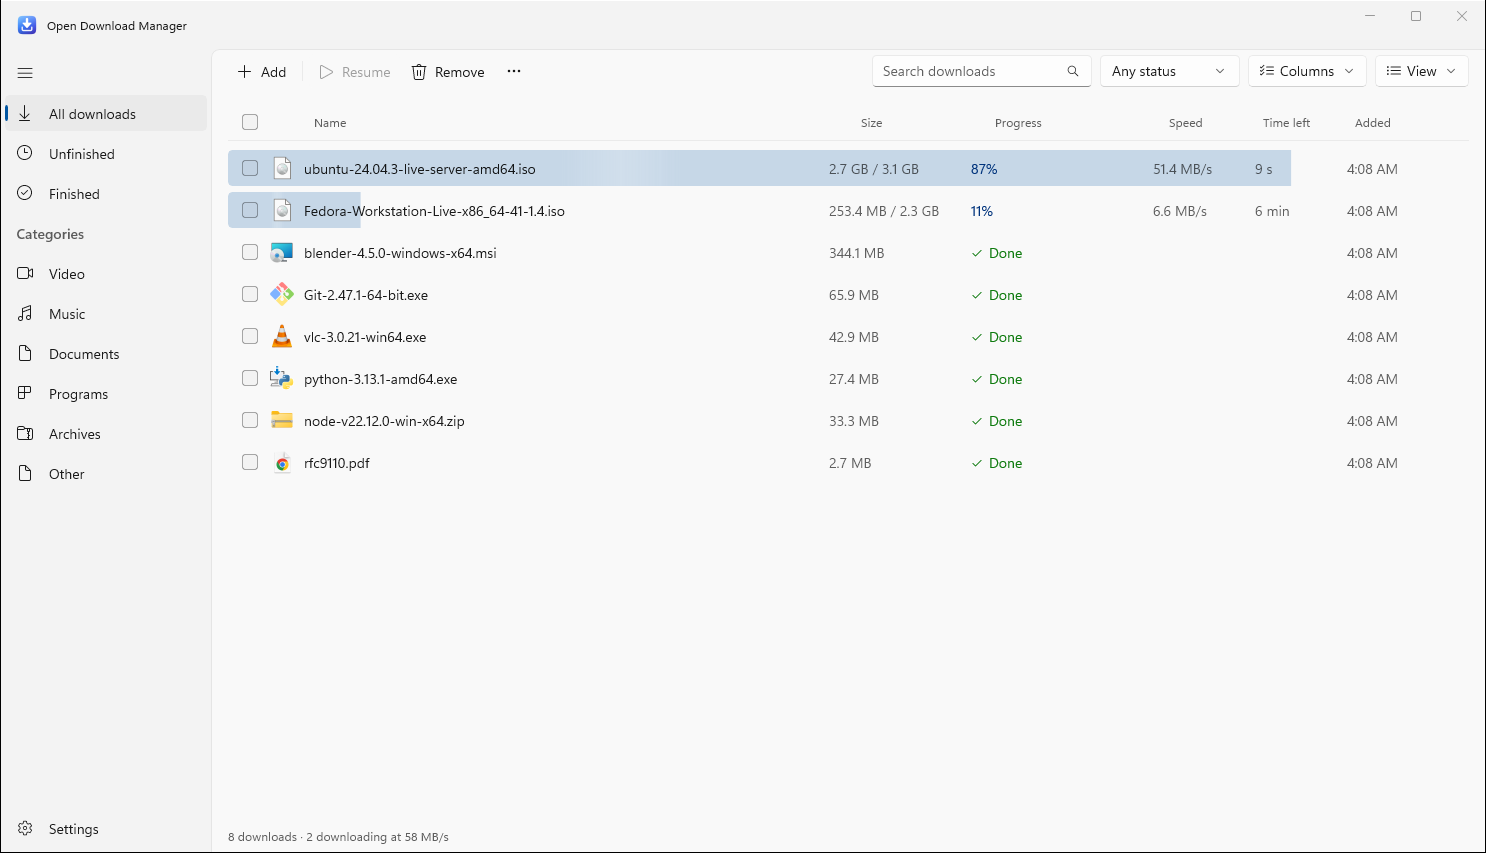
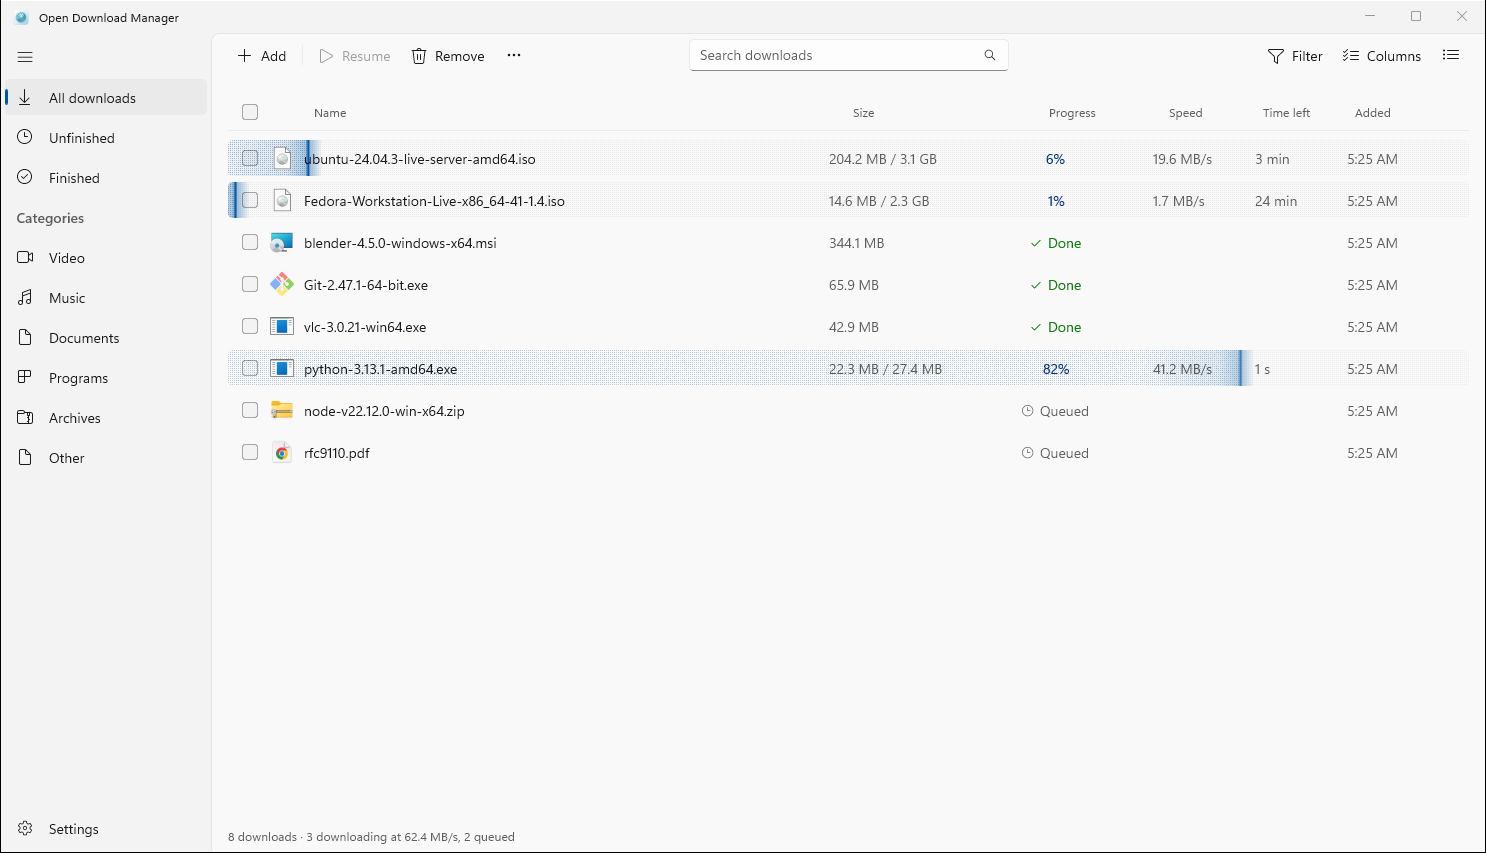
Labelled filter and columns buttons, a density toggle, new README screenshots
- Filter and Columns show their labels first; the actions' labels follow
  when there is room, and everything falls back to icons on narrow windows.
- The View menu is now one button that steps through the row densities;
  theme and progress windows stay in Settings.
- README screenshots retaken: the list in light and dark with dot-matrix
  rows, the progress window with its connections, and the extension with the
  new icon.

diff --git a/windows/OpenDownloadManager/MainWindow.xaml b/windows/OpenDownloadManager/MainWindow.xaml
@@ -181,19 +181,22 @@
                             <Style TargetType="Button" BasedOn="{StaticResource DefaultButtonStyle}">
                                 <Setter Property="Background" Value="Transparent" />
                                 <Setter Property="BorderThickness" Value="0" />
-                                <Setter Property="Padding" Value="0" />
-                                <Setter Property="Width" Value="36" />
+                                <Setter Property="Padding" Value="9,0" />
+                                <Setter Property="MinWidth" Value="36" />
                                 <Setter Property="Height" Value="34" />
                                 <Setter Property="CornerRadius" Value="4" />
                             </Style>
                         </StackPanel.Resources>
                         <Button x:Name="StatusButton" ToolTipService.ToolTip="Show: any status" AutomationProperties.Name="Filter by status">
-                            <Grid>
-                                <FontIcon Glyph="&#xE71C;" FontSize="16" />
-                                <!-- A dot while a filter is on. -->
-                                <Ellipse x:Name="StatusDot" Width="7" Height="7" Margin="0,-3,-5,0" HorizontalAlignment="Right" VerticalAlignment="Top"
-                                         Fill="{ThemeResource AccentFillColorDefaultBrush}" Visibility="Collapsed" />
-                            </Grid>
+                            <StackPanel Orientation="Horizontal" Spacing="8">
+                                <Grid>
+                                    <FontIcon Glyph="&#xE71C;" FontSize="16" />
+                                    <!-- A dot while a filter is on. -->
+                                    <Ellipse x:Name="StatusDot" Width="7" Height="7" Margin="0,-3,-5,0" HorizontalAlignment="Right" VerticalAlignment="Top"
+                                             Fill="{ThemeResource AccentFillColorDefaultBrush}" Visibility="Collapsed" />
+                                </Grid>
+                                <TextBlock x:Name="LabelFilter" Text="Filter" />
+                            </StackPanel>
                             <Button.Flyout>
                                 <MenuFlyout Placement="BottomEdgeAlignedRight">
                                     <RadioMenuFlyoutItem Text="Any status" GroupName="status" Tag="any" IsChecked="True" Click="OnStatusFilterClick" />
@@ -207,7 +210,10 @@
                             </Button.Flyout>
                         </Button>
                         <Button ToolTipService.ToolTip="Columns" AutomationProperties.Name="Columns">
-                            <FontIcon Glyph="&#xE9D5;" FontSize="16" />
+                            <StackPanel Orientation="Horizontal" Spacing="8">
+                                <FontIcon Glyph="&#xE9D5;" FontSize="16" />
+                                <TextBlock x:Name="LabelColumns" Text="Columns" />
+                            </StackPanel>
                             <Button.Flyout>
                                 <MenuFlyout Placement="BottomEdgeAlignedRight" Opening="OnViewMenuOpening">
                                     <ToggleMenuFlyoutItem x:Name="ColSize" Text="Size" Click="OnColumnToggle" Tag="size" />
@@ -218,24 +224,9 @@
                                 </MenuFlyout>
                             </Button.Flyout>
                         </Button>
-                        <Button ToolTipService.ToolTip="View: density, theme, progress windows" AutomationProperties.Name="View">
-                            <FontIcon Glyph="&#xE8FD;" FontSize="16" />
-                            <Button.Flyout>
-                                <MenuFlyout x:Name="ViewMenu" Placement="BottomEdgeAlignedRight" Opening="OnViewMenuOpening">
-                                    <MenuFlyoutSubItem Text="Density">
-                                        <RadioMenuFlyoutItem x:Name="DensityCompact" Text="Compact" GroupName="density" Tag="compact" Click="OnDensityClick" />
-                                        <RadioMenuFlyoutItem x:Name="DensityStandard" Text="Standard" GroupName="density" Tag="standard" Click="OnDensityClick" />
-                                        <RadioMenuFlyoutItem x:Name="DensityComfortable" Text="Comfortable" GroupName="density" Tag="comfortable" Click="OnDensityClick" />
-                                    </MenuFlyoutSubItem>
-                                    <MenuFlyoutSubItem Text="Theme">
-                                        <RadioMenuFlyoutItem x:Name="ThemeSystem" Text="Use system setting" GroupName="theme" Tag="system" Click="OnThemeClick" />
-                                        <RadioMenuFlyoutItem x:Name="ThemeLight" Text="Light" GroupName="theme" Tag="light" Click="OnThemeClick" />
-                                        <RadioMenuFlyoutItem x:Name="ThemeDark" Text="Dark" GroupName="theme" Tag="dark" Click="OnThemeClick" />
-                                    </MenuFlyoutSubItem>
-                                    <MenuFlyoutSeparator />
-                                    <ToggleMenuFlyoutItem x:Name="ProgressWindows" Text="Open a progress window for each download" Click="OnProgressWindowsToggle" />
-                                </MenuFlyout>
-                            </Button.Flyout>
+                        <!-- One click steps through the row densities; theme and the rest live in Settings. -->
+                        <Button x:Name="DensityButton" Click="OnDensityToggle" AutomationProperties.Name="Row density">
+                            <FontIcon x:Name="DensityIcon" Glyph="&#xE8FD;" FontSize="16" />
                         </Button>
                     </StackPanel>
                 </Grid>

diff --git a/windows/OpenDownloadManager/MainWindow.xaml.cs b/windows/OpenDownloadManager/MainWindow.xaml.cs
@@ -20,6 +20,7 @@ public sealed partial class MainWindow : Window
     {
         ViewModel = viewModel;
         InitializeComponent();
+        ShowDensity();
         // The Pause/Resume button follows the selection and the downloads' states; a light poll
         // covers both without wiring every item.
         var pauseResume = DispatcherQueue.CreateTimer();
@@ -94,13 +95,6 @@ public sealed partial class MainWindow : Window
         ColSpeed.IsChecked = v.ShowSpeed;
         ColTimeLeft.IsChecked = v.ShowTimeLeft;
         ColAdded.IsChecked = v.ShowAdded;
-        DensityCompact.IsChecked = v.Density == "compact";
-        DensityStandard.IsChecked = v.Density == "standard";
-        DensityComfortable.IsChecked = v.Density == "comfortable";
-        ThemeSystem.IsChecked = v.Theme == "system";
-        ThemeLight.IsChecked = v.Theme == "light";
-        ThemeDark.IsChecked = v.Theme == "dark";
-        ProgressWindows.IsChecked = ViewModel.AppSettings.ShowProgressWindow;
     }
 
     private void OnColumnToggle(object sender, RoutedEventArgs e)
@@ -117,20 +111,22 @@ public sealed partial class MainWindow : Window
         }
     }
 
-    private void OnDensityClick(object sender, RoutedEventArgs e)
+    private static readonly string[] Densities = ["compact", "standard", "comfortable"];
+
+    /// <summary>Steps to the next row density: compact, standard, comfortable, and round again.</summary>
+    private void OnDensityToggle(object sender, RoutedEventArgs e)
     {
-        if (sender is FrameworkElement { Tag: string density }) ViewSettings.Current.Density = density;
+        var v = ViewSettings.Current;
+        v.Density = Densities[(Array.IndexOf(Densities, v.Density) + 1) % Densities.Length];
+        ShowDensity();
     }
 
-    private void OnThemeClick(object sender, RoutedEventArgs e)
+    private void ShowDensity()
     {
-        if (sender is FrameworkElement { Tag: string theme }) ViewSettings.Current.Theme = theme;
-    }
-
-    private void OnProgressWindowsToggle(object sender, RoutedEventArgs e)
-    {
-        ViewModel.AppSettings.ShowProgressWindow = ProgressWindows.IsChecked;
-        try { ViewModel.AppSettings.Save(); } catch { }
+        var current = ViewSettings.Current.Density;
+        var next = Densities[(Array.IndexOf(Densities, current) + 1) % Densities.Length];
+        static string Name(string d) => char.ToUpperInvariant(d[0]) + d[1..];
+        ToolTipService.SetToolTip(DensityButton, $"Rows: {Name(current)}. Click for {Name(next)}.");
     }
 
     // ----- selection -----
@@ -170,21 +166,26 @@ public sealed partial class MainWindow : Window
 
     // ----- responsive layout -----
 
-    /// <summary>Width of the actions with their labels (Add, Pause/Resume, Remove, More).</summary>
-    private const double LabelledActionsWidth = 292;
+    /// <summary>Widths of each side of the toolbar with its labels.</summary>
+    private const double LabelledActionsWidth = 312, LabelledToolsWidth = 236;
 
     /// <summary>
-    /// The search stays centred, so each side gets half of what it leaves. The actions show their
-    /// labels when that half fits them, shrinking the search a little first; otherwise they become
+    /// The search stays centred, so each side gets half of what it leaves. Labels show where they
+    /// fit: the filter, columns and view buttons first, then the actions; otherwise those become
     /// icon buttons. Narrow windows give the search a row of its own.
     /// </summary>
     private void OnBodySizeChanged(object sender, SizeChangedEventArgs e)
     {
         var width = e.NewSize.Width;
         var narrow = width < 620;
-        var labels = false;
+        const double minSearch = 170, gap = 8;
+        bool Fits(double side) => width - 2 * (side + gap) >= minSearch;
+        bool toolLabels, actionLabels;
         if (narrow)
         {
+            // The search has its own row, so each side has the whole width to share.
+            toolLabels = width >= LabelledToolsWidth + 36 * 4 + 40;
+            actionLabels = width >= LabelledToolsWidth + LabelledActionsWidth + 16;
             Search.Width = double.NaN;
             Search.HorizontalAlignment = HorizontalAlignment.Stretch;
             Grid.SetRow(Search, 1);
@@ -193,17 +194,19 @@ public sealed partial class MainWindow : Window
         }
         else
         {
-            // Room for the search between two equal sides wide enough for the labelled actions.
-            var room = width - 2 * (LabelledActionsWidth + 8);
-            labels = room >= 170;
-            Search.Width = labels ? Math.Min(320, room) : Math.Clamp(width - 2 * 200, 160, 260);
+            toolLabels = Fits(LabelledToolsWidth);
+            actionLabels = toolLabels && Fits(Math.Max(LabelledToolsWidth, LabelledActionsWidth));
+            var side = Math.Max(toolLabels ? LabelledToolsWidth : 116, actionLabels ? LabelledActionsWidth : 180);
+            Search.Width = Math.Clamp(width - 2 * (side + gap), minSearch, 320);
             Search.HorizontalAlignment = HorizontalAlignment.Center;
             Grid.SetRow(Search, 0);
             Grid.SetColumn(Search, 1);
             Grid.SetColumnSpan(Search, 1);
         }
+        foreach (var label in new[] { LabelFilter, LabelColumns })
+            label.Visibility = toolLabels ? Visibility.Visible : Visibility.Collapsed;
         foreach (var label in new[] { LabelAdd, LabelPauseResume, LabelRemove })
-            label.Visibility = labels ? Visibility.Visible : Visibility.Collapsed;
+            label.Visibility = actionLabels ? Visibility.Visible : Visibility.Collapsed;
     }
 
     /// <summary>The list's width decides which columns fit.</summary>

diff --git a/README.md b/README.md
@@ -62,7 +62,7 @@ have the right to download: it does not get around DRM, paywalls, or logins you 
   <img src="docs/screenshots/app-dark.png" alt="The download list in dark theme" width="760">
 </p>
 <p align="center">
-  <img src="docs/screenshots/progress-window.png" alt="A download's progress window with its speed graph" width="420">
+  <img src="docs/screenshots/progress-window.png" alt="A download's progress window: its speed graph and each connection's part of the file" width="420">
 </p>
 
 ## Browser extension
